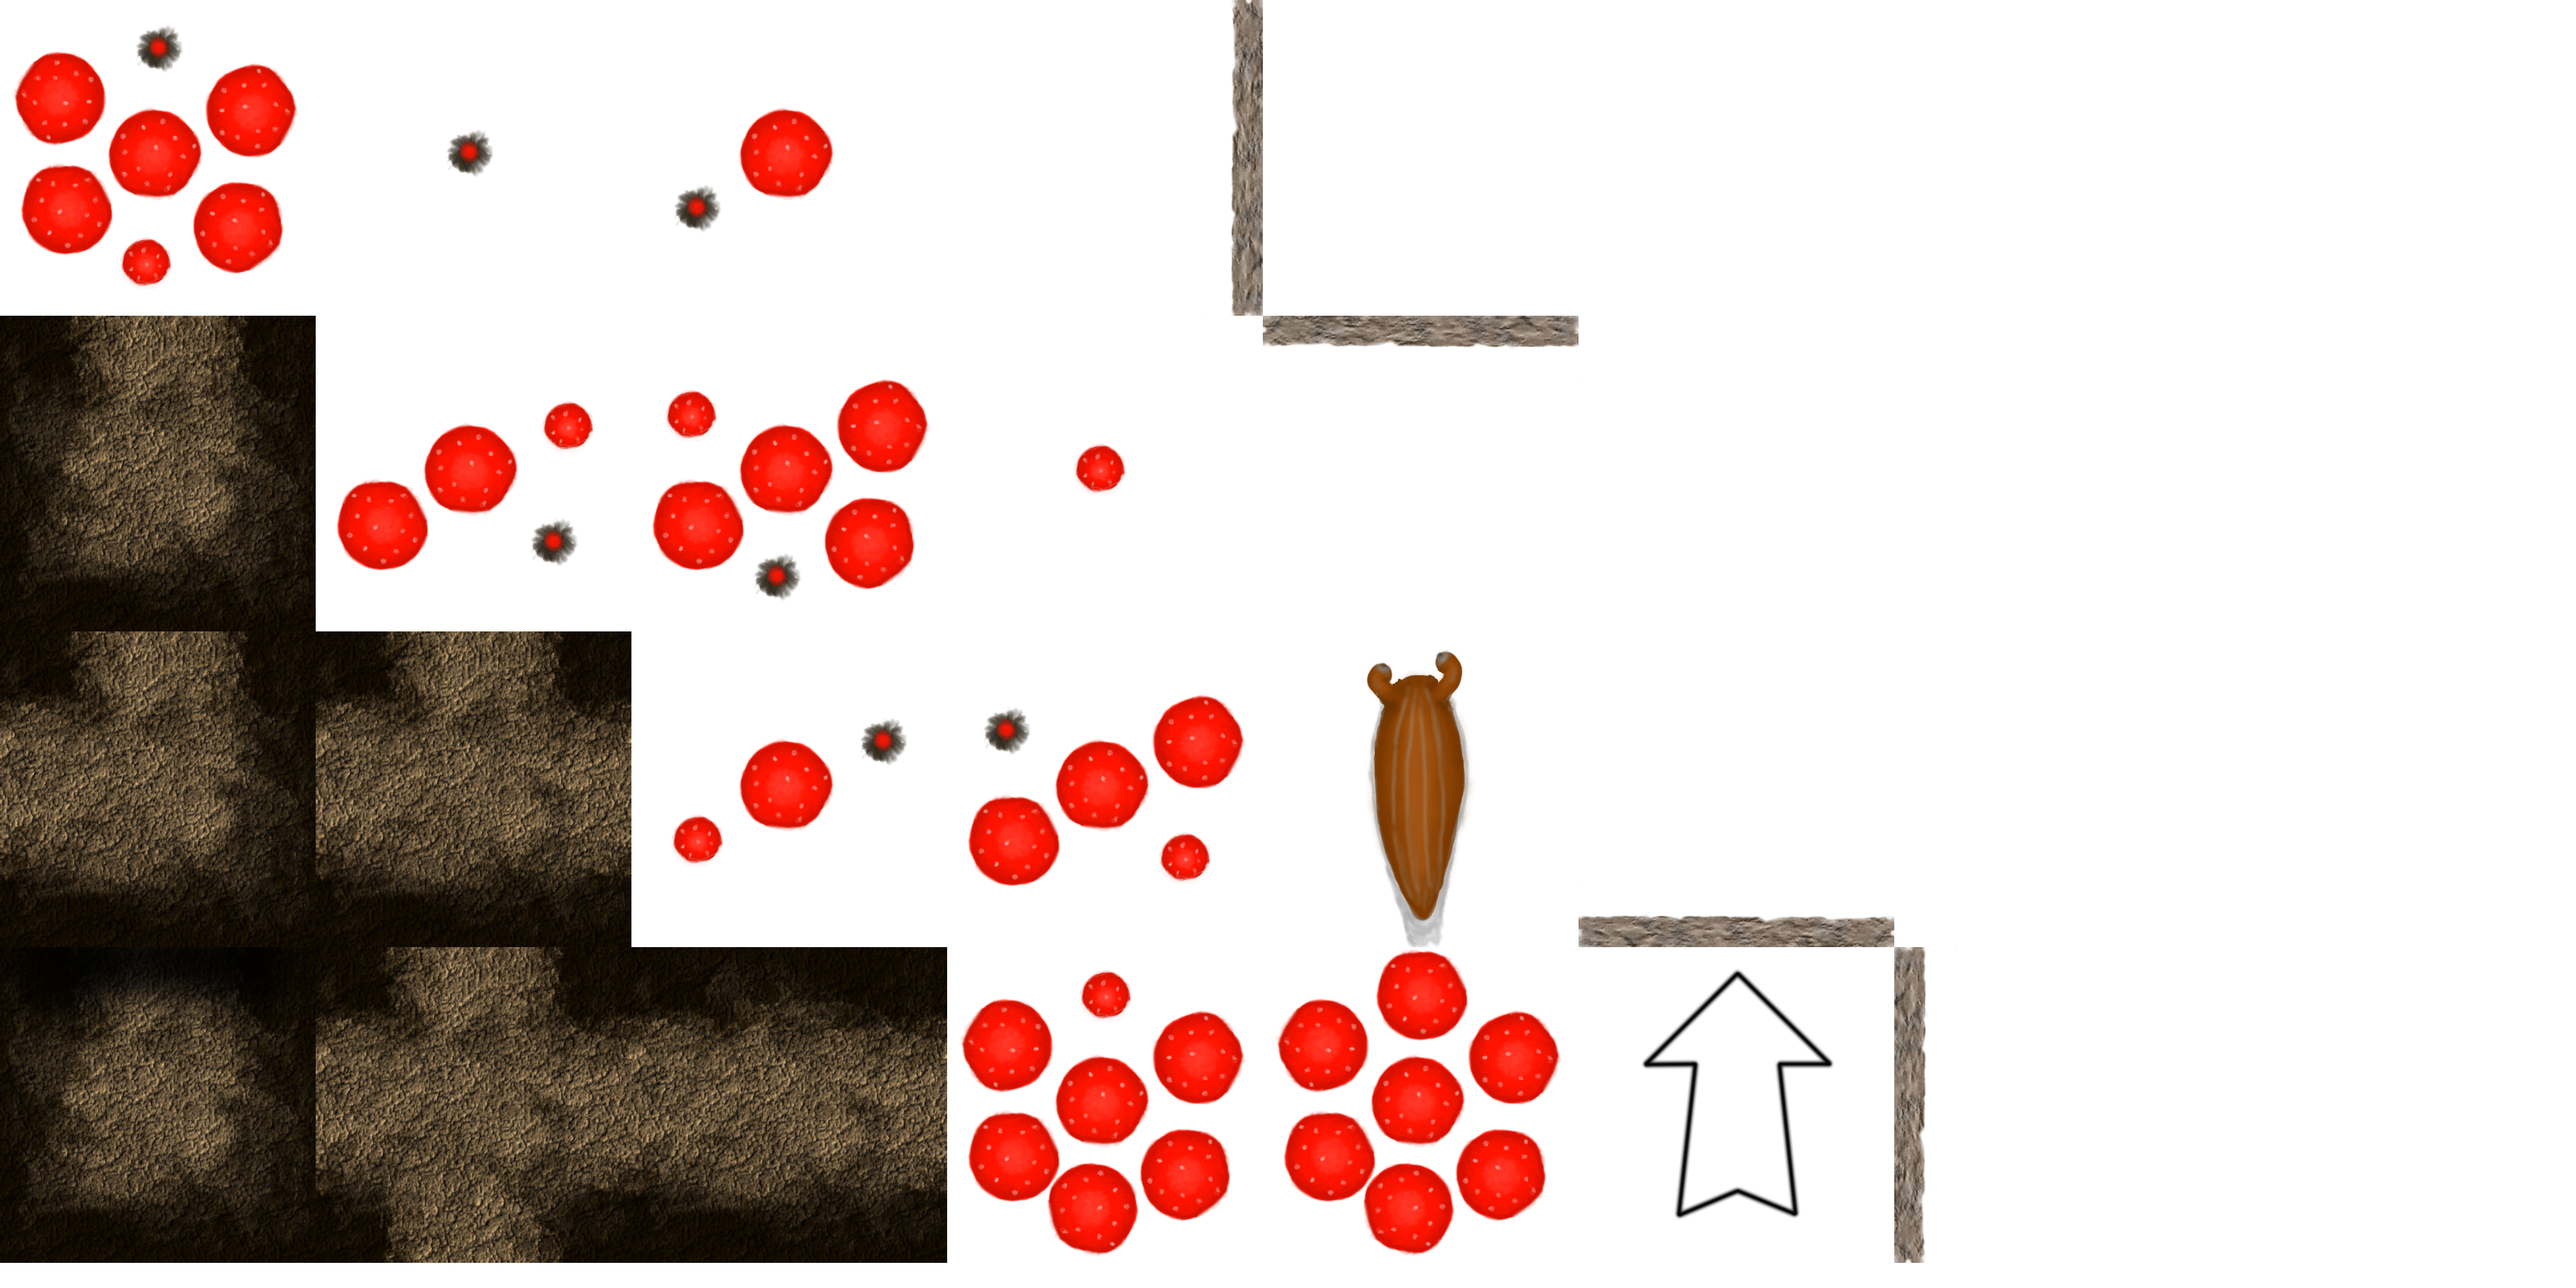
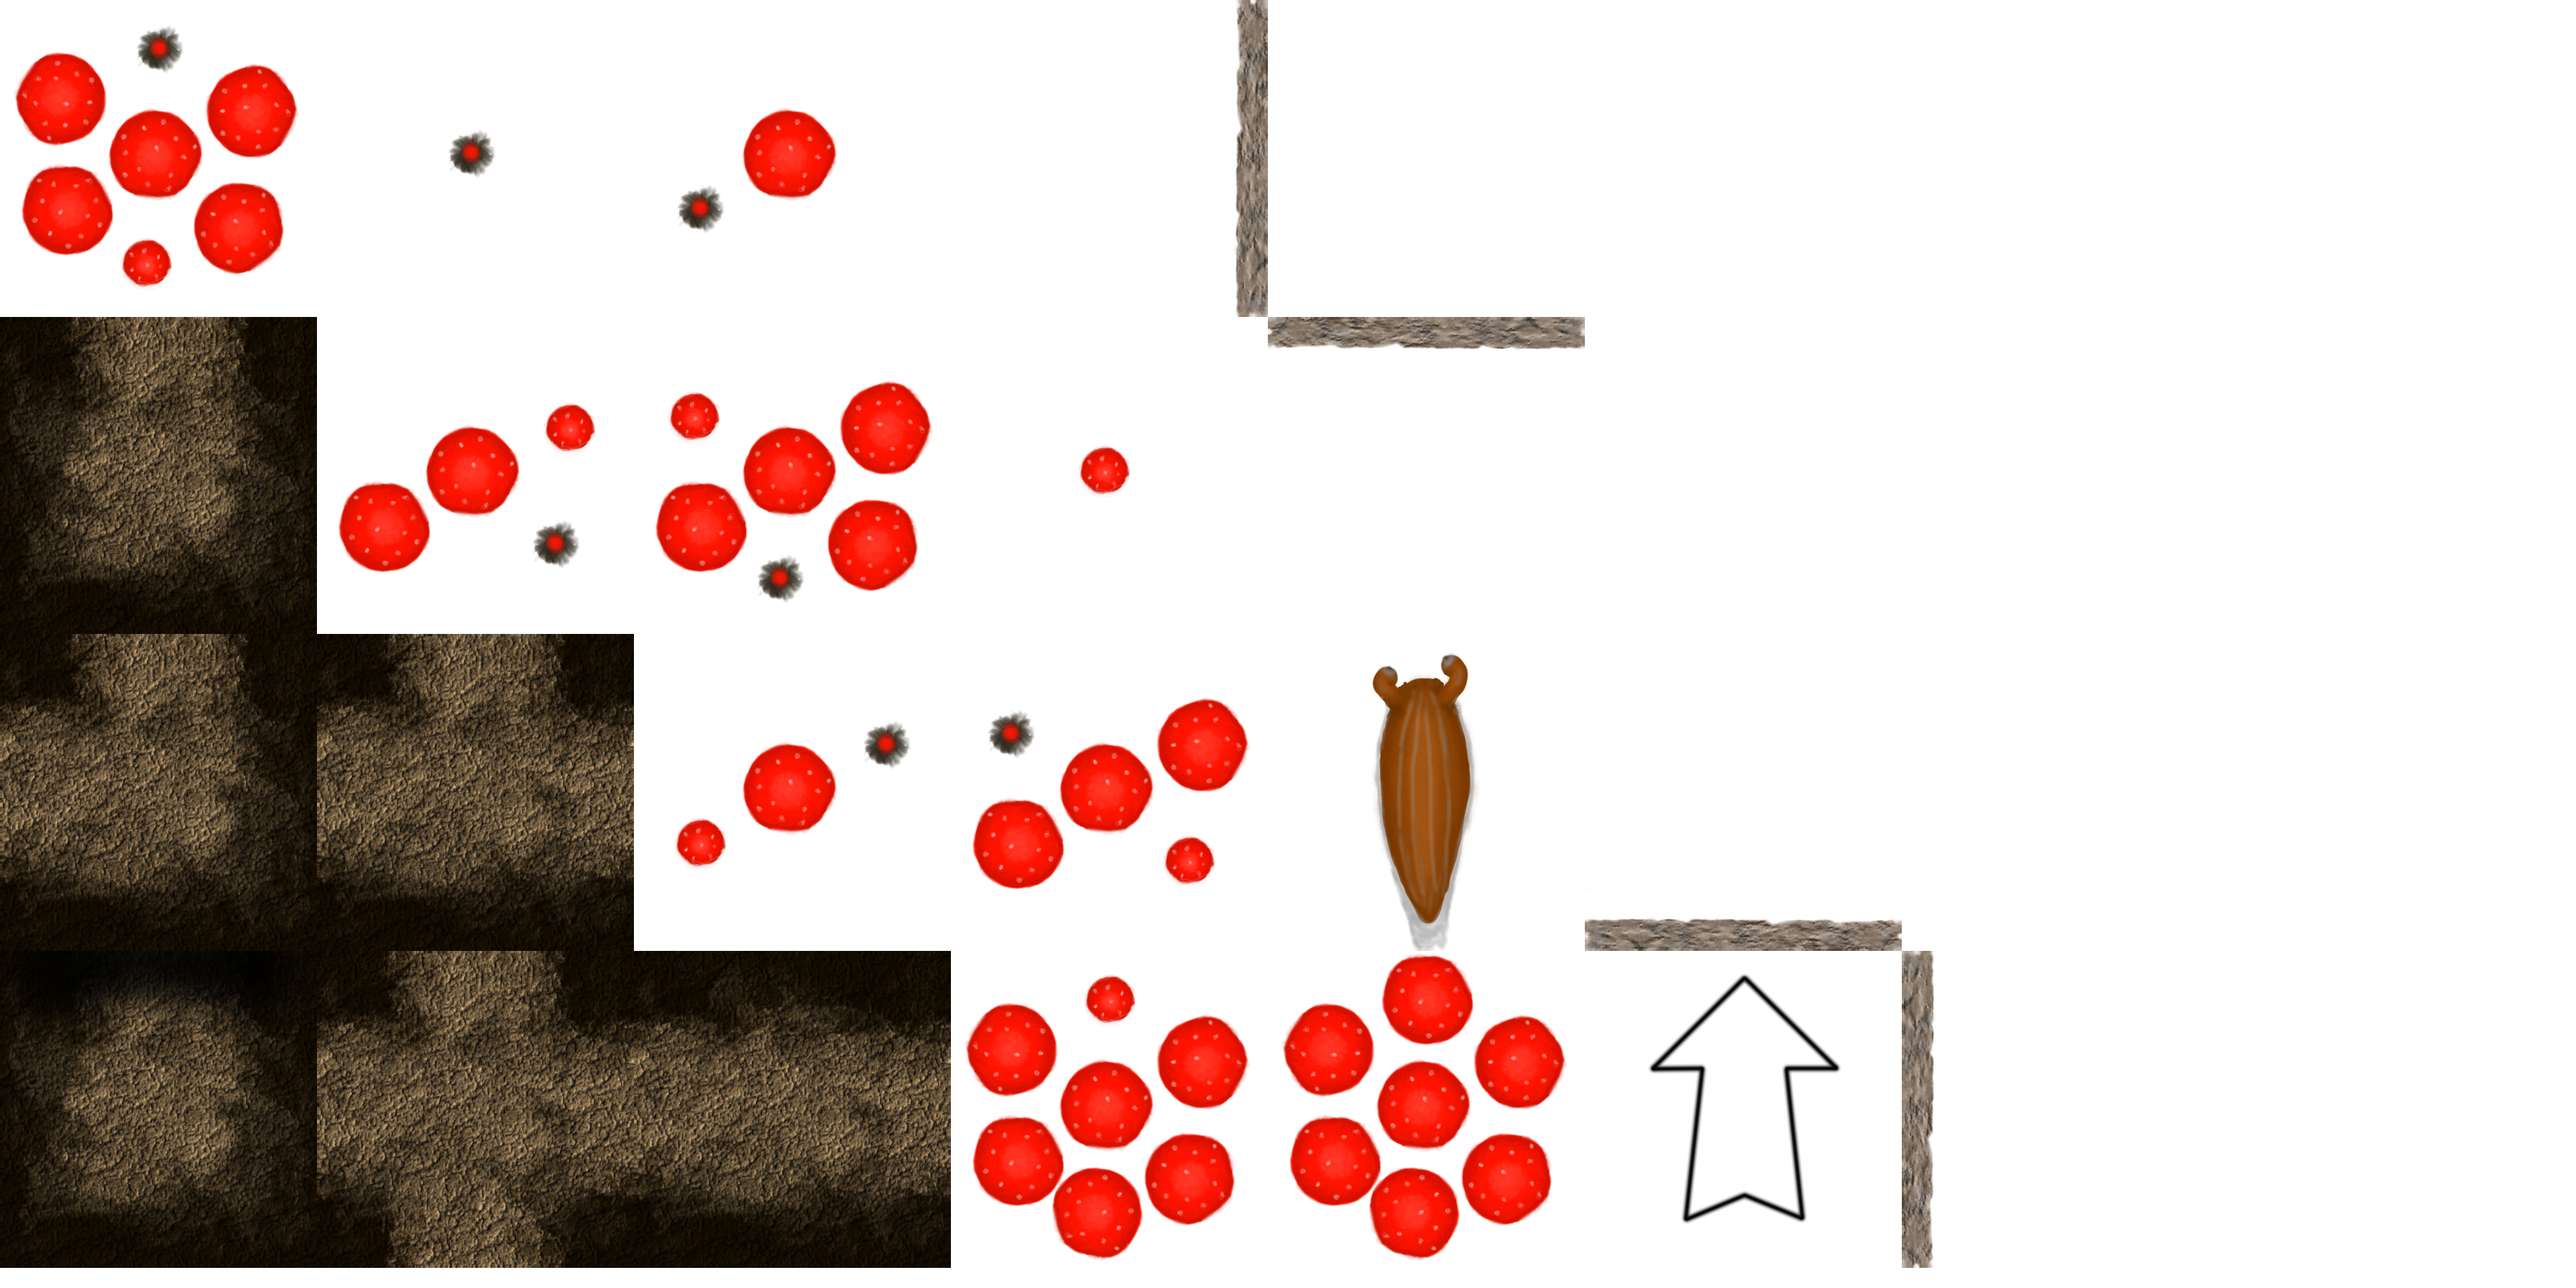
Vis.: Fixed texture bleeding, fixed robot update + some other minor changes.
git-svn-id: https://dev.se.uni-hannover.de/svn/shared/LV/swp1516/roboter-labyrinth2@577 8fccc7c9-0077-40ea-a901-f51b848cf750

diff --git a/Visualization/trunk/Visualization/src/de/unihannover/swp2015/robots2/visual/game/entity/Robot.java b/Visualization/trunk/Visualization/src/de/unihannover/swp2015/robots2/visual/game/entity/Robot.java
@@ -62,13 +62,34 @@ public class Robot extends Entity {
 		this.fieldWidth = prefs.getFloat(PrefKey.FIELD_WIDTH_KEY);
 		this.fieldHeight = prefs.getFloat(PrefKey.FIELD_HEIGHT_KEY);
 
-		this.width = fieldWidth * GameConst.ROBOT_SCALE;
-		this.height = fieldHeight * GameConst.ROBOT_SCALE;
-		this.renderX = robot.getPosition().getX() * fieldWidth + fieldWidth/2 - width/2;
-		this.renderY = robot.getPosition().getY() * fieldHeight + fieldHeight/2 - height/2;
-		
+		this.updateWidth(robot);
+		this.updateHeight(robot);
 		this.initBubble(robot);
 		this.registerComponent(new RobotEngine(prefs));
+	}
+	
+	/**
+	 * Updates all values, which depend on {@link fieldWidth}
+	 * 
+	 * @param robot robot model
+	 */
+	private void updateWidth(final IRobot robot) {
+		this.width = fieldWidth * GameConst.ROBOT_SCALE;
+		this.renderX = robot.getPosition().getX() * fieldWidth + fieldWidth/2 - width/2;
+		this.bubble.x = robot.getPosition().getX() * fieldWidth - renderX;
+		this.bubble.width = fieldWidth * 0.75f;
+	}
+	
+	/**
+	 * Updates all values, which depend on {@link fieldHeight}
+	 * 
+	 * @param robot robot model
+	 */
+	private void updateHeight(final IRobot robot) {
+		this.height = fieldHeight * GameConst.ROBOT_SCALE;
+		this.renderY = robot.getPosition().getY() * fieldHeight + fieldHeight/2 - height/2;
+		this.bubble.height = fieldHeight * 0.2f;
+		this.bubble.y = robot.getPosition().getY() * fieldHeight - renderY;
 	}
 	
 	/**
@@ -84,10 +105,6 @@ public class Robot extends Entity {
 		this.bubble.color = bubble.color.set(bubble.color.r, bubble.color.g, bubble.color.b, bubble.color.a * 0.7f);
 		this.bubble.font = resHandler.getFont(ResConst.DEFAULT_FONT);
 		this.bubble.points = robo.getId().substring(0, 4) + " : " + robo.getScore() + "(" + ((RobotGameHandler) gameHandler).getRanking(robo) + ")";
-		this.bubble.x = robo.getPosition().getX() * fieldWidth - renderX;
-		this.bubble.y = robo.getPosition().getY() * fieldHeight - renderY;
-		this.bubble.width = fieldWidth * 0.75f;
-		this.bubble.height = fieldHeight * 0.2f;
 	}
 	
 	@Override
@@ -127,7 +144,7 @@ public class Robot extends Entity {
 				drawStartPosition = robotModel.getState() == RobotState.SETUPSTATE;
 				
 			default:
-				//other event won't be handled 
+				//other events won't be handled 
 				break;
 		}		
 	}
@@ -140,18 +157,14 @@ public class Robot extends Entity {
 		
 		case FIELD_HEIGHT_KEY:
 			modList.clear();
-			height = fieldHeight * GameConst.ROBOT_SCALE;
-			renderY = robot.getPosition().getY() * fieldHeight + fieldHeight/2 - height/2;
-			bubble.height = fieldHeight * 0.2f;
-			bubble.y = robot.getPosition().getY() * fieldHeight - renderY;
+			fieldHeight = (float) value;
+			updateHeight(robot);
 			break;
 			
 		case FIELD_WIDTH_KEY:
 			modList.clear();
-			width = fieldWidth * GameConst.ROBOT_SCALE;
-			renderX = robot.getPosition().getX() * fieldWidth + fieldWidth/2 - width/2;
-			bubble.width = fieldWidth * GameConst.BUBBLE_X_SCALE;
-			bubble.x = robot.getPosition().getX() * fieldWidth - renderX;
+			fieldWidth = (float) value;
+			updateWidth(robot);
 			break;
 			
 		default:

diff --git a/Visualization/trunk/Visualization/src/de/unihannover/swp2015/robots2/visual/desktop/DesktopLauncher.java b/Visualization/trunk/Visualization/src/de/unihannover/swp2015/robots2/visual/desktop/DesktopLauncher.java
@@ -3,6 +3,7 @@ package de.unihannover.swp2015.robots2.visual.desktop;
 import org.apache.logging.log4j.LogManager;
 import org.apache.logging.log4j.Logger;
 
+import com.badlogic.gdx.Application;
 import com.badlogic.gdx.backends.lwjgl.LwjglApplication;
 import com.badlogic.gdx.backends.lwjgl.LwjglApplicationConfiguration;
 import com.badlogic.gdx.graphics.Texture.TextureFilter;
@@ -24,7 +25,7 @@ public class DesktopLauncher {
 	
 	/** Logger (log4j) */
 	private static final Logger log = LogManager.getLogger();
-	/** Path to shaders of the PP-library */
+	/** Path to the shaders of the PP-library */
 	private static final String SHADER_PATH = "resources/shaders/";
 	
 	private DesktopLauncher() {
@@ -67,6 +68,8 @@ public class DesktopLauncher {
 			packSettings.maxHeight = 1024*4;
 			packSettings.pot = true;
 			packSettings.duplicatePadding = true;
+			packSettings.paddingX = 4;
+			packSettings.paddingY = 4;
 			packSettings.filterMag = TextureFilter.MipMapNearestNearest;
 			packSettings.filterMin = TextureFilter.MipMapNearestNearest;
 			TexturePacker.process(packSettings, "assets/tex/default_theme_src", ResConst.ATLAS_PATH.getName()+ "/default", ResConst.ATLAS_NAME.getName());
@@ -81,7 +84,7 @@ public class DesktopLauncher {
 		config.backgroundFPS = 60;
 		config.vSyncEnabled = false;
 		config.fullscreen = false;
-		new LwjglApplication(new Visualization(debug, brokerIp), config);
+		new LwjglApplication(new Visualization(debug, brokerIp), config).setLogLevel(Application.LOG_NONE);
 	}
 
 }

diff --git a/Visualization/trunk/Visualization/src/de/unihannover/swp2015/robots2/visual/game/RobotGameHandler.java b/Visualization/trunk/Visualization/src/de/unihannover/swp2015/robots2/visual/game/RobotGameHandler.java
@@ -3,6 +3,9 @@ package de.unihannover.swp2015.robots2.visual.game;
 import java.util.ArrayList;
 import java.util.List;
 
+import org.apache.logging.log4j.LogManager;
+import org.apache.logging.log4j.Logger;
+
 import com.badlogic.gdx.Gdx;
 import com.badlogic.gdx.Input.Keys;
 import com.badlogic.gdx.graphics.g2d.SpriteBatch;
@@ -28,6 +31,8 @@ import de.unihannover.swp2015.robots2.visual.util.pref.IPreferences;
  * @author Rico Schrage
  */
 public class RobotGameHandler extends GameHandler {
+	
+	private static final Logger log = LogManager.getLogger();
 	
 	/** List of entities managed by this game handler.*/
 	protected final List<IEntity> entityList;
@@ -185,7 +190,9 @@ public class RobotGameHandler extends GameHandler {
 				roboEntity.setZIndex(1);
 				Entity.addEntitySorted(roboEntity, entityList);
 				SortUtil.addRobotSorted(robot, robots);
+				log.info("Robot received");
 			}
+			log.info("Robot event received");
 			break;
 			
 		case ROBOT_DELETE:

diff --git a/Visualization/trunk/Visualization/src/de/unihannover/swp2015/robots2/visual/Visualization.java b/Visualization/trunk/Visualization/src/de/unihannover/swp2015/robots2/visual/Visualization.java
@@ -101,6 +101,7 @@ public class Visualization extends ApplicationAdapter {
 		prefs.putFloat(PrefKey.DEVICE_HEIGHT, device.getDisplayMode().getHeight());
 		
 		final IResourceHandler resHandler = new ResourceHandler(ResConst.ATLAS_PATH.getName());
+		gameHandlerList.add(new RobotGameHandler(mqttHandler.getGame(), fitViewport, resHandler, prefs));
 		
 		if (debug) {
 			new TestApp(mqttHandler.getGame());
@@ -109,8 +110,6 @@ public class Visualization extends ApplicationAdapter {
 			final Thread mqttThread = new Thread(mqttHandler, "MQTT");
 			mqttThread.start();
 		}
-		
-		gameHandlerList.add(new RobotGameHandler(mqttHandler.getGame(), fitViewport, resHandler, prefs));
 	}
 
 	@Override

diff --git a/Visualization/trunk/Visualization/src/de/unihannover/swp2015/robots2/visual/core/entity/IEntity.java b/Visualization/trunk/Visualization/src/de/unihannover/swp2015/robots2/visual/core/entity/IEntity.java
@@ -8,6 +8,11 @@ import de.unihannover.swp2015.robots2.visual.core.IUpdateable;
 import de.unihannover.swp2015.robots2.visual.core.PrefKey;
 import de.unihannover.swp2015.robots2.visual.util.pref.IPreferencesObserver;
 
+/**
+ * Describes a self updating/drawing entity, which will be based on a model class defined by the protocol.
+ * 
+ * @author Rico Schrage
+ */
 public interface IEntity extends IDrawable, IModelObserver, Comparable<IEntity>, IPreferencesObserver<PrefKey>, IUpdateable {
 
 	/**

diff --git a/Visualization/trunk/Visualization/src/de/unihannover/swp2015/robots2/visual/util/pref/PreferencesObservable.java b/Visualization/trunk/Visualization/src/de/unihannover/swp2015/robots2/visual/util/pref/PreferencesObservable.java
@@ -10,7 +10,7 @@ import java.util.List;
  *
  * @param <T> class, which has been used by the preference object to map to the values.
  */
-public class PreferencesObservable<T extends IPreferencesKey<T>> implements IPreferencesObservable<T> {
+public class PreferencesObservable<T extends IPreferencesKey> implements IPreferencesObservable<T> {
 
 	/** Contains all observers. */
 	private final List<IPreferencesObserver<T>> observerList = new ArrayList<>();

diff --git a/Visualization/trunk/Visualization/src/de/unihannover/swp2015/robots2/visual/util/pref/IPreferences.java b/Visualization/trunk/Visualization/src/de/unihannover/swp2015/robots2/visual/util/pref/IPreferences.java
@@ -8,7 +8,7 @@ package de.unihannover.swp2015.robots2.visual.util.pref;
  * 
  * @author Rico Schrage
  */
-public interface IPreferences<T extends IPreferencesKey<T>> extends IPreferencesObservable<T> {
+public interface IPreferences<T extends IPreferencesKey> extends IPreferencesObservable<T> {
 
 	/**
 	 * Returns the boolean, which is mapped to <code>key</code>. If there is no value mapped to <code>key</code>, <code>def</code> will be returned.

diff --git a/Visualization/trunk/Visualization/src/de/unihannover/swp2015/robots2/visual/util/pref/FlexPreferences.java b/Visualization/trunk/Visualization/src/de/unihannover/swp2015/robots2/visual/util/pref/FlexPreferences.java
@@ -13,7 +13,7 @@ import com.badlogic.gdx.Preferences;
  * @see {@link IPreferences}
  * @author Rico Schrage
  */
-public class FlexPreferences<T extends IPreferencesKey<T>> extends PreferencesObservable<T> implements IPreferences<T> {
+public class FlexPreferences<T extends IPreferencesKey> extends PreferencesObservable<T> implements IPreferences<T> {
 
 	/**
 	 * Handler for saving data persistent.

diff --git a/Visualization/trunk/Visualization/src/de/unihannover/swp2015/robots2/visual/util/pref/IPreferencesObserver.java b/Visualization/trunk/Visualization/src/de/unihannover/swp2015/robots2/visual/util/pref/IPreferencesObserver.java
@@ -7,7 +7,7 @@ package de.unihannover.swp2015.robots2.visual.util.pref;
  *
  * @param <T> type of the key, which will be used for the preference object.
  */
-public interface IPreferencesObserver<T extends IPreferencesKey<T>> {
+public interface IPreferencesObserver<T extends IPreferencesKey> {
 	
 	/**
 	 * Will be called when a value has changed

diff --git a/Visualization/trunk/Visualization/src/de/unihannover/swp2015/robots2/visual/util/pref/IPreferencesObservable.java b/Visualization/trunk/Visualization/src/de/unihannover/swp2015/robots2/visual/util/pref/IPreferencesObservable.java
@@ -6,7 +6,7 @@ package de.unihannover.swp2015.robots2.visual.util.pref;
  *
  * @param <T> enum, which implements {@link IPreferencesKey}
  */
-public interface IPreferencesObservable<T extends IPreferencesKey<T>> {
+public interface IPreferencesObservable<T extends IPreferencesKey> {
 
 	/**
 	 * Notify all observers that a value has changed.

diff --git a/Visualization/trunk/Visualization/src/de/unihannover/swp2015/robots2/visual/util/SortUtil.java b/Visualization/trunk/Visualization/src/de/unihannover/swp2015/robots2/visual/util/SortUtil.java
@@ -17,6 +17,11 @@ public class SortUtil {
 		// utility class
 	}
 	
+	/**
+	 * Sort robots on basis of the score (descending). 
+	 *
+	 * @param robots list of robots you want to sort
+	 */
 	public static void sortRobots(final List<IRobot> robots) {
 		Collections.sort(robots, new Comparator<IRobot>() {
 			@Override

diff --git a/Visualization/trunk/Visualization/src/de/unihannover/swp2015/robots2/visual/core/PrefKey.java b/Visualization/trunk/Visualization/src/de/unihannover/swp2015/robots2/visual/core/PrefKey.java
@@ -7,7 +7,7 @@ import de.unihannover.swp2015.robots2.visual.util.pref.IPreferencesKey;
  * 
  * @author Rico Schrage
  */
-public enum PrefKey implements IPreferencesKey<PrefKey> {
+public enum PrefKey implements IPreferencesKey {
 
 	DEVICE_WIDTH("device_width"),
 	DEVICE_HEIGHT("device_height"),
